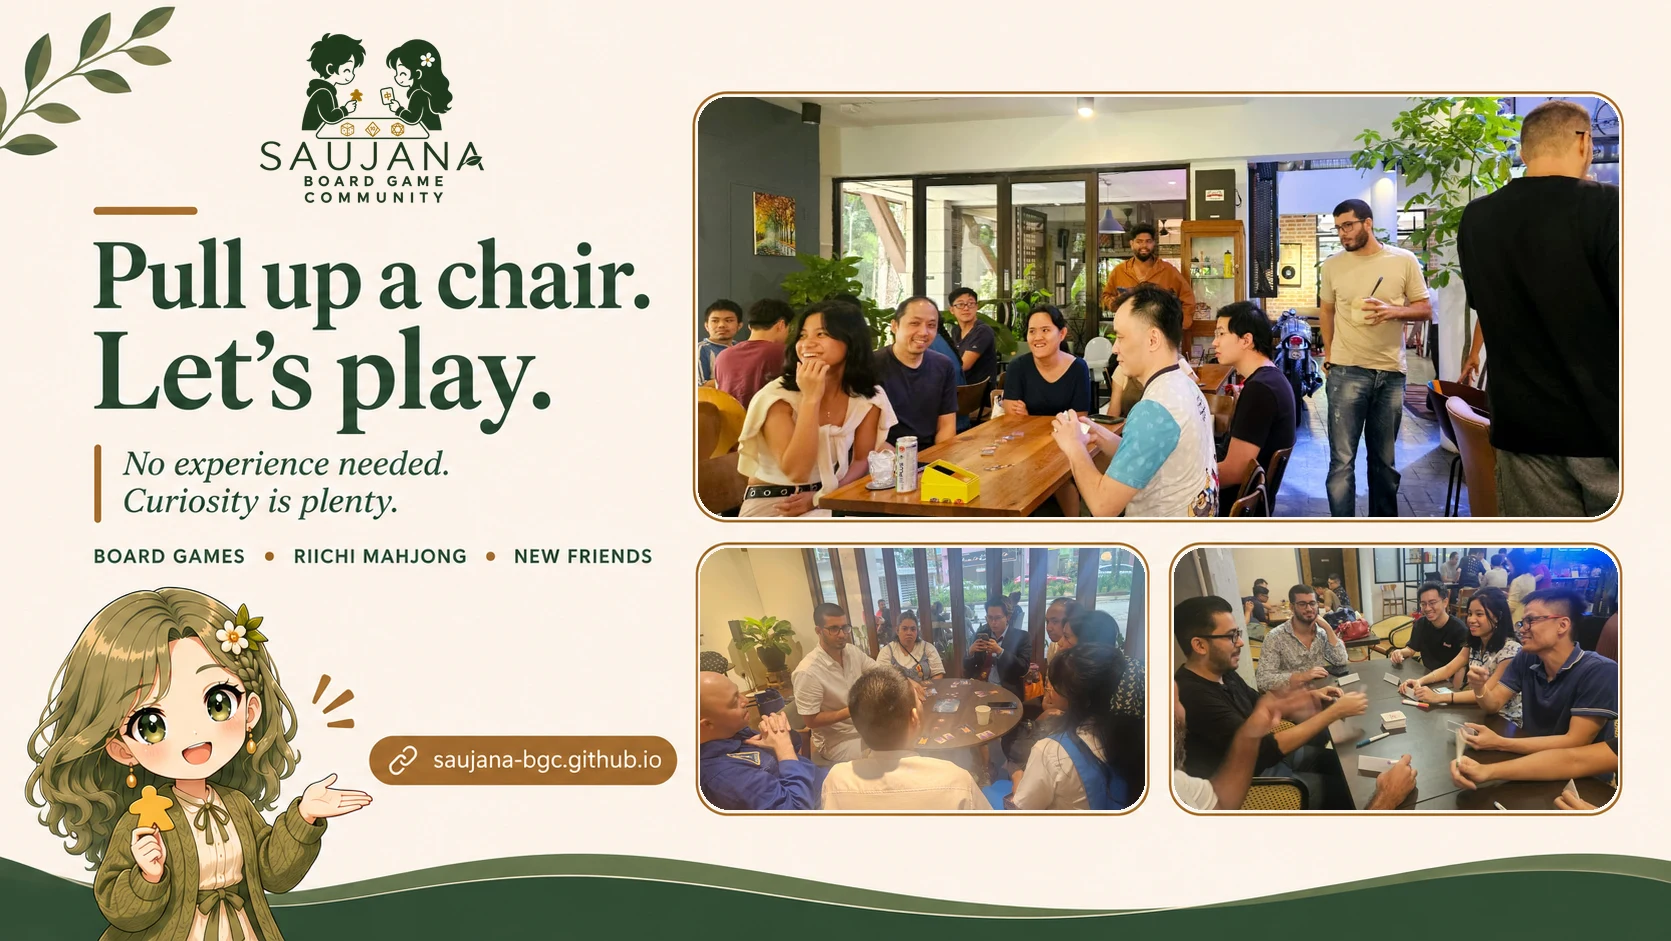
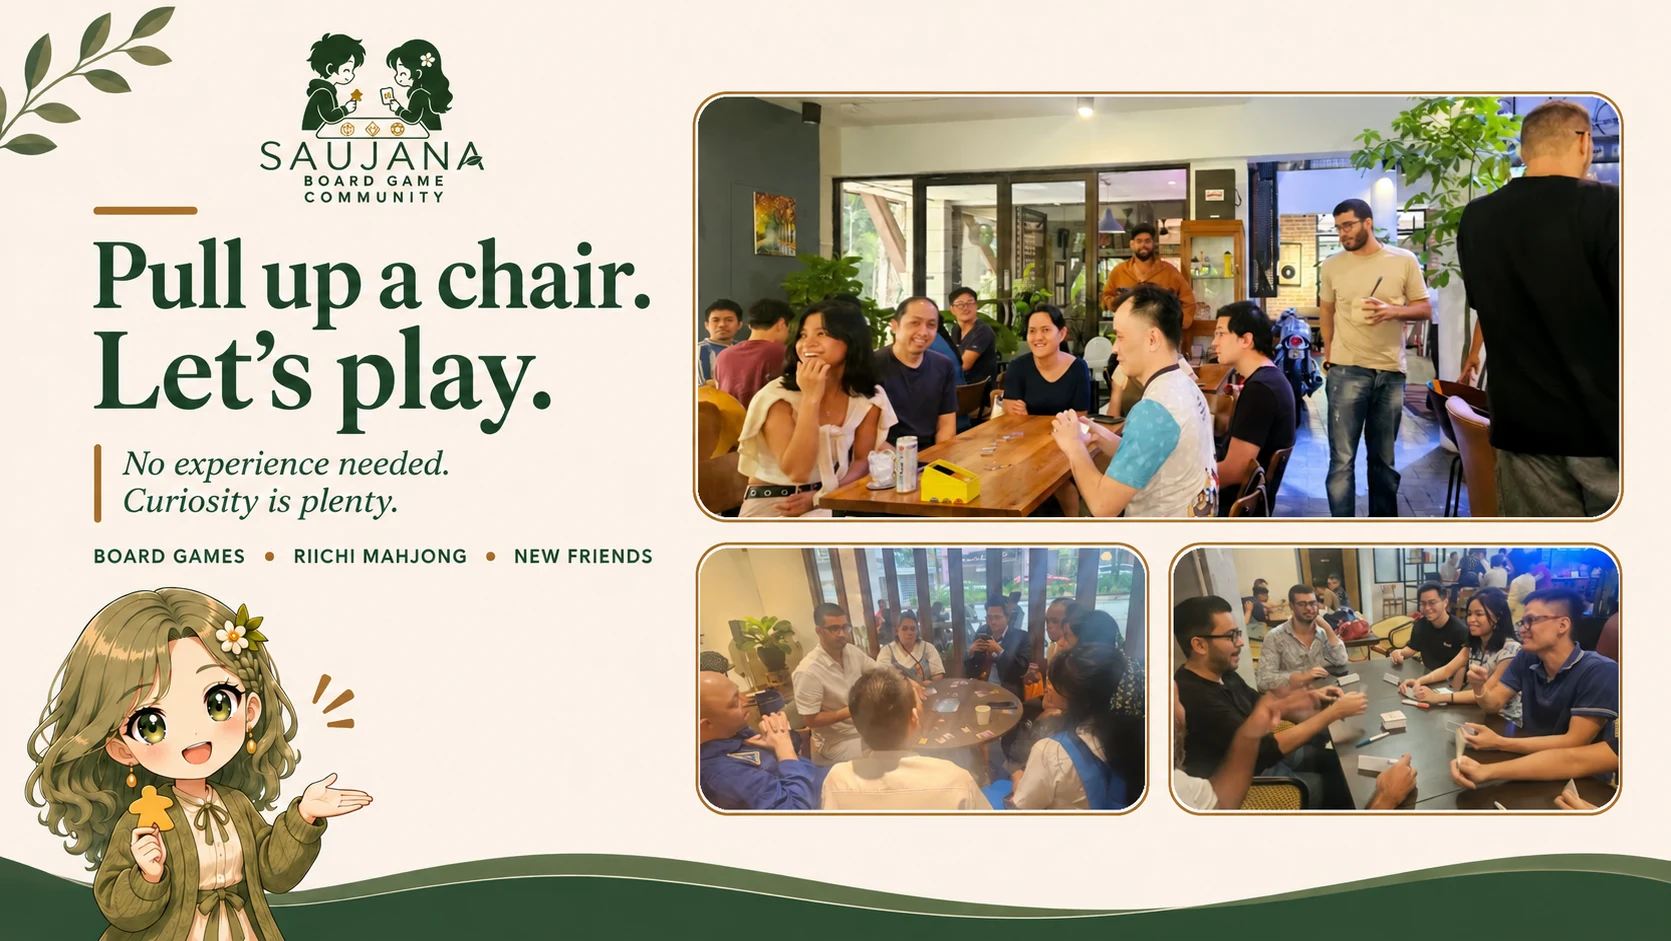
Make first visit guidance calmer

diff --git a/pages/gatherings.vue b/pages/gatherings.vue
@@ -65,6 +65,7 @@
           <div class="event-heading-details">
             <span>{{ event.time }}</span>
             <span>{{ event.venue }}</span>
+          <span v-if="canEditEvent(event)">RM10 minimum spend · pay at the counter</span>
             <a v-if="event.venue_url" :href="event.venue_url" target="_blank" rel="noopener noreferrer">Directions</a>
           </div>
         </div>
@@ -73,6 +74,7 @@
           <span><small>Date</small><strong>{{ formatDate(event.date) }}</strong></span>
           <span><small>Time</small><strong>{{ event.time }}</strong></span>
           <span><small>Venue</small><strong>{{ event.venue }}</strong></span>
+          <span v-if="canEditEvent(event)" class="spend-fact"><small>At the venue</small><strong>RM10 minimum spend · pay at the counter</strong></span>
           <a v-if="event.venue_url" :href="event.venue_url" target="_blank" rel="noopener noreferrer">Directions <span aria-hidden="true">↗</span></a>
         </div>
 
@@ -102,7 +104,6 @@
             <div v-if="activeTab === 'present'" class="signup-intro">
               <h3>Sign up</h3>
               <p>A name or nickname is all you need to sign up.</p>
-              <p v-if="canEditEvent(event)" class="signup-minimum-spend">RM10 minimum spend per person. Pay at the counter.</p>
             </div>
 
             <div v-if="canEditEvent(event)" class="signup-section">
@@ -1275,6 +1276,7 @@ watch(attendeesByEvent, resizeAllAreas, { deep: true, flush: 'post' })
     color: var(--clay-text);
 }
 .event-image-facts span { min-width: 0; }
+.event-image-facts .spend-fact { grid-column: 1 / -1; }
 .event-image-facts small { display: block; margin-bottom: 3px; color: var(--muted); }
 .event-image-facts strong { display: block; font-weight: 600; line-height: 1.45; }
 .event-image-facts a { min-height: 44px; display: flex; align-items: center; color: var(--matcha-leaf); }

diff --git a/pages/index.vue b/pages/index.vue
@@ -87,7 +87,7 @@
       <div class="first-visit-layout">
         <div class="first-visit-copy">
           <h2 id="first-visit-title" class="hero-title story-title">Your first gathering</h2>
-          <p class="section-intro">When you arrive, ask for Saujana BGC. If you’d like help choosing a game, just ask. Can’t find us? <a href="https://wa.me/saujanabgc" target="_blank" rel="noopener noreferrer">Send us a message on WhatsApp</a>. <NuxtLink to="/gatherings" no-prefetch>See dates, venues and sign-up details</NuxtLink>.</p>
+          <p class="section-intro">Your first game or your hundredth, you’re welcome here. Questions before you come? <a href="https://wa.me/saujanabgc" target="_blank" rel="noopener noreferrer">Message us on WhatsApp</a>. <NuxtLink to="/gatherings" no-prefetch>See dates, venues and sign-up details</NuxtLink>.</p>
         </div>
         <img
           class="first-visit-photo"
@@ -192,19 +192,19 @@ const communityValues = [
 
 const expectations = [
   {
-    title: 'Settle in',
+    title: 'Find us',
     icon: 'M12 12a4 4 0 1 0 0-8 4 4 0 0 0 0 8ZM4 21a8 8 0 0 1 16 0',
-    copy: 'Take a moment to settle in. You can start by watching a game or joining a table.'
+    copy: 'When you arrive, ask for Saujana BGC. If you can’t find us, message us on WhatsApp.'
   },
   {
-    title: 'Find your game',
+    title: 'Choose a game',
     icon: 'M3 7h18v13H3zM7 7V4h10v3M8 12h8M8 16h5',
-    copy: 'Tell us what you enjoy. We’ll suggest a game and walk you through the rules.'
+    copy: 'Tell us what you enjoy. We’ll suggest a game and explain the rules as you play.'
   },
   {
-    title: 'Watch or join in',
+    title: 'Join at your pace',
     icon: 'M3 5h18v12H3zM8 21h8m-4-4v4M10 9l5 2-5 2z',
-    copy: 'Watch a round or play at your own pace.'
+    copy: 'Watch a round first, or join a table whenever you feel ready.'
   }
 ]
 </script>

diff --git a/pages/only-blood-in-the-clocktower.vue b/pages/only-blood-in-the-clocktower.vue
@@ -346,7 +346,7 @@ async function loadArchive() {
     await nextTick()
     await focusSharedTarget()
   } catch {
-    error.value = 'We couldn’t load the recaps. Try again.'
+    error.value = 'The recaps aren’t available right now.'
   } finally {
     loading.value = false
   }
